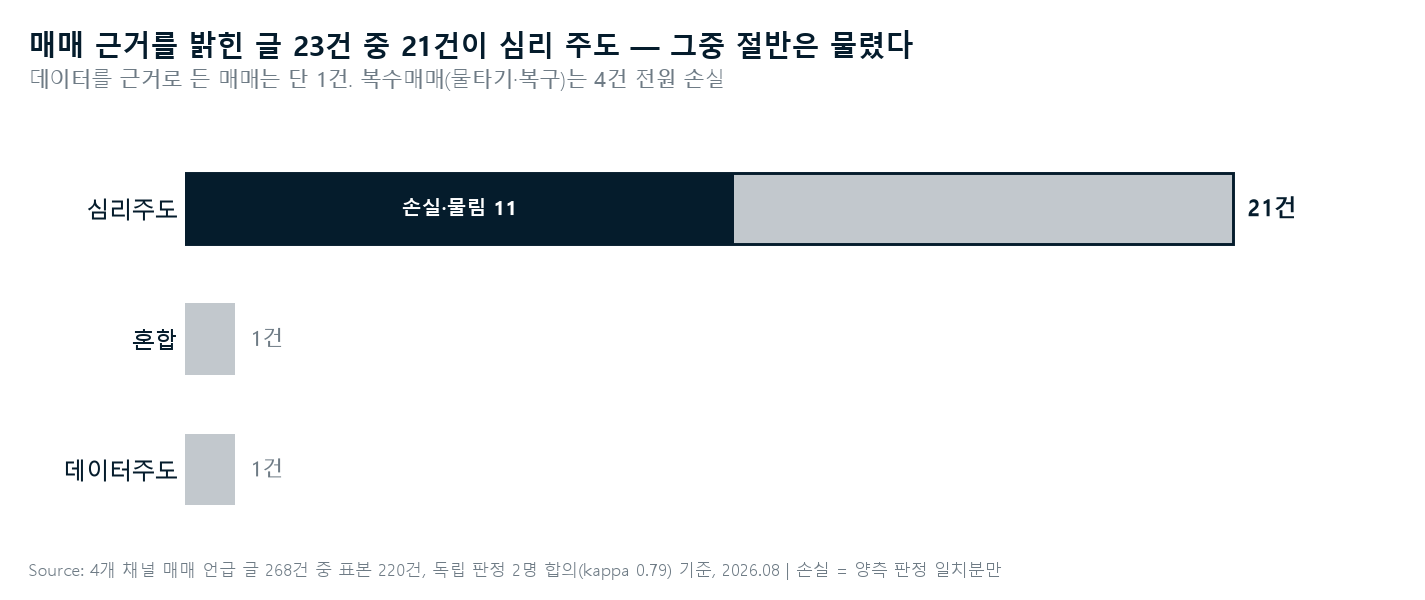
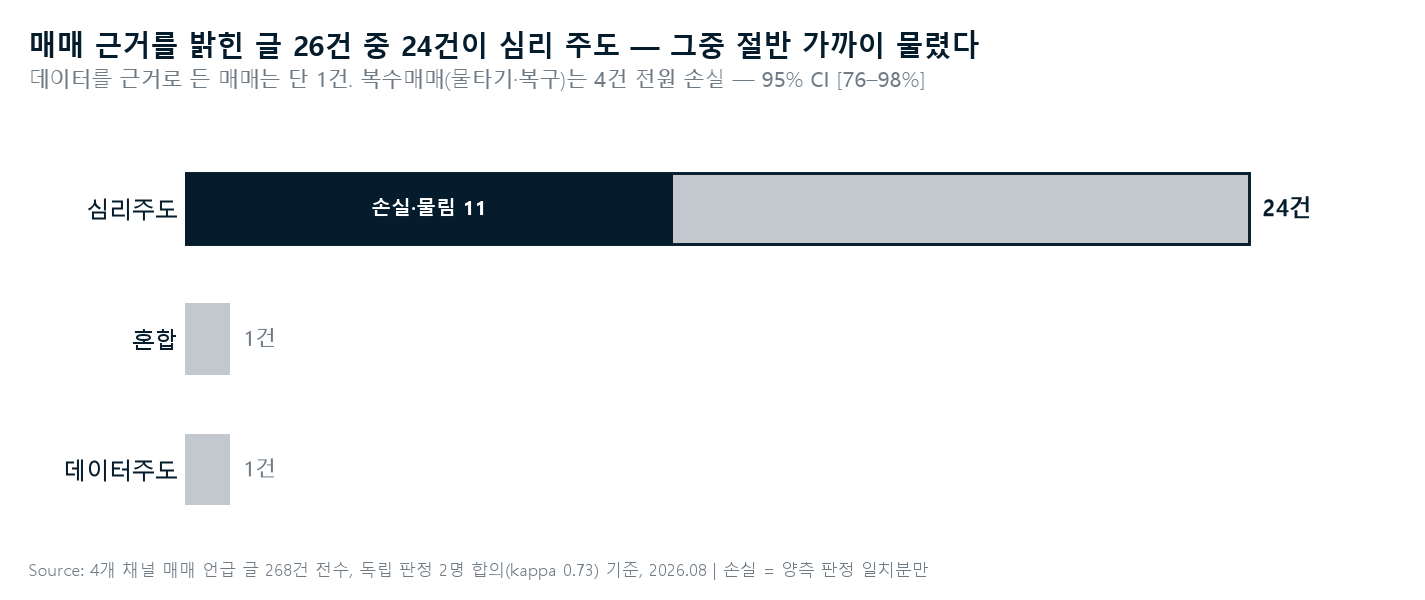
268건 전수 판정 + UX 목업 v1
- 전수 합의: 심리주도 24/26 (92%, Wilson CI [76-98%]), 손실 46% [28-65%],
  복수매매 4/4. 잔여 48건 kappa 0.50은 보고서에 정직 기재
- PRD·README·chart5 수치를 전수 기준으로 갱신
- design/mockup_v1.html: 인터셉트·복수매매 변형·거울(L2)·심리매매 지수 4화면

diff --git a/design/mockup_v1.html b/design/mockup_v1.html
@@ -1,0 +1,185 @@
+<!-- 한 번 더 — UX 목업 v1 (PRD v3 기준) -->
+<meta charset="utf-8">
+<title>한 번 더 — UX 목업 v1</title>
+<style>
+  :root{
+    --navy:#051C2C; --ink:#0e2233; --muted:#6E7B85; --line:#E4E8EB;
+    --bg:#F6F7F8; --card:#FFFFFF; --soft:#EEF1F3; --neg:#B4552D; --pos:#2E6E4E;
+  }
+  *{box-sizing:border-box; margin:0; -webkit-font-smoothing:antialiased}
+  body{font-family:'Malgun Gothic','Apple SD Gothic Neo',system-ui,sans-serif;
+       background:#e9ebee; color:var(--ink); padding:36px 20px}
+  h1{font-size:20px; margin-bottom:4px}
+  .sub{color:var(--muted); font-size:13px; margin-bottom:28px}
+  .row{display:flex; gap:28px; flex-wrap:wrap; align-items:flex-start}
+  .col{width:300px}
+  .label{font-size:13px; font-weight:bold; margin:0 0 10px 4px}
+  .note{font-size:11.5px; color:var(--muted); margin:10px 4px 0; line-height:1.55}
+
+  .phone{width:300px; height:610px; background:var(--bg); border-radius:38px;
+         border:8px solid #1b1b1d; overflow:hidden; display:flex; flex-direction:column;
+         box-shadow:0 12px 30px rgba(0,0,0,.18)}
+  .status{height:34px; display:flex; justify-content:space-between; align-items:center;
+          padding:0 22px; font-size:11px; color:var(--muted)}
+  .screen{flex:1; padding:10px 20px 16px; display:flex; flex-direction:column}
+
+  .brand{font-size:12px; letter-spacing:.14em; color:var(--muted); text-align:center; margin-bottom:6px}
+  .q{font-size:21px; font-weight:800; text-align:center; line-height:1.35; margin:14px 0 20px}
+  .btn{display:block; width:100%; padding:16px 14px; margin-bottom:10px; border:1.5px solid var(--line);
+       border-radius:14px; background:var(--card); font-size:15.5px; font-weight:600; text-align:center; color:var(--ink)}
+  .btn small{display:block; font-weight:400; font-size:11.5px; color:var(--muted); margin-top:3px}
+  .aux{margin-top:auto; background:var(--soft); border-radius:12px; padding:11px 14px;
+       font-size:12.5px; color:var(--muted); line-height:1.7}
+  .aux b{color:var(--ink); font-weight:600}
+  .actions{display:flex; gap:10px; margin-top:12px}
+  .go{flex:1; padding:14px; border-radius:12px; background:var(--navy); color:#fff;
+      font-size:14.5px; font-weight:700; text-align:center}
+  .stop{flex:1; padding:14px; border-radius:12px; background:none; border:1.5px solid var(--line);
+        color:var(--muted); font-size:14.5px; text-align:center}
+  .ctx{background:#FBF4EF; border:1px solid #EAD9CD; border-radius:12px; padding:10px 13px;
+       font-size:12.5px; color:#7A4A2B; line-height:1.6; margin-bottom:14px}
+
+  /* 거울 화면 */
+  .h2{font-size:17px; font-weight:800; margin:8px 0 3px}
+  .period{font-size:11.5px; color:var(--muted); margin-bottom:16px}
+  .mrow{margin-bottom:18px}
+  .mhead{display:flex; justify-content:space-between; font-size:13px; margin-bottom:6px}
+  .mhead b{font-weight:700}
+  .mhead .v{font-weight:800}
+  .neg{color:var(--neg)} .pos{color:var(--pos)}
+  .track{height:10px; background:var(--soft); border-radius:5px; position:relative}
+  .track .zero{position:absolute; left:50%; top:-3px; bottom:-3px; width:1px; background:#c9cfd4}
+  .bar{position:absolute; top:0; height:10px; border-radius:5px}
+  .chips{display:flex; gap:6px; flex-wrap:wrap; margin-top:4px}
+  .chip{font-size:11px; color:var(--muted); background:var(--soft); border-radius:8px; padding:3px 8px}
+  .divider{height:1px; background:var(--line); margin:16px 0}
+  .fact{font-size:13px; line-height:1.75; color:var(--ink)}
+  .fact .mut{color:var(--muted)}
+
+  /* 지수 화면 */
+  .big{font-size:44px; font-weight:800; letter-spacing:-.02em}
+  .big small{font-size:15px; font-weight:600; color:var(--muted); margin-left:4px}
+  .spark{display:flex; align-items:flex-end; gap:7px; height:86px; margin:18px 2px 6px}
+  .sp{flex:1; background:var(--soft); border-radius:4px 4px 0 0; position:relative}
+  .sp.cur{background:var(--navy)}
+  .sp span{position:absolute; top:-19px; left:0; right:0; text-align:center; font-size:10.5px; color:var(--muted)}
+  .sp.cur span{color:var(--navy); font-weight:700}
+  .months{display:flex; gap:7px; margin-bottom:14px}
+  .months div{flex:1; text-align:center; font-size:10.5px; color:var(--muted)}
+</style>
+
+<h1>한 번 더 — UX 목업 v1</h1>
+<div class="sub">PRD v3 기준 · 3초 판독 · 한 손 · 판정 문구 없음 · 게이미피케이션 없음</div>
+
+<div class="row">
+
+  <!-- ① 인터셉트 -->
+  <div class="col">
+    <div class="label">① 인터셉트 — 증권앱을 여는 순간</div>
+    <div class="phone"><div class="status"><span>8:42</span><span>🔋</span></div>
+      <div class="screen">
+        <div class="brand">한 번 더</div>
+        <div class="q">이 매수의 근거는?</div>
+        <a class="btn">실적·분석이 있다</a>
+        <a class="btn">분위기·감이다</a>
+        <a class="btn">모르겠다</a>
+        <div class="aux">
+          지금 심박 <b>평소 +14</b> · 어젯밤 수면 <b>5h 10m</b>
+        </div>
+        <div class="actions">
+          <a class="stop">오늘은 그만</a>
+          <a class="go">계속하기</a>
+        </div>
+      </div>
+    </div>
+    <div class="note">질문이 화면의 전부. 버튼을 안 눌러도 [계속하기]로 통과 가능 — 무응답도 기록된다(FR-5). 생체는 하단 보조 한 줄(L1), H10 미착용 시 수면만 표시.</div>
+  </div>
+
+  <!-- ①b 복수매매 변형 -->
+  <div class="col">
+    <div class="label">①b 복수매매 변형 — 손실 중 종목 재진입 감지 시</div>
+    <div class="phone"><div class="status"><span>10:17</span><span>🔋</span></div>
+      <div class="screen">
+        <div class="brand">한 번 더</div>
+        <div class="ctx">이 종목은 현재 <b>−18%</b> 보유 중이에요.<br>직전 매수는 7월 22일이었어요.</div>
+        <div class="q">이번 매수의 근거는?</div>
+        <a class="btn">실적·분석이 있다</a>
+        <a class="btn">분위기·감이다</a>
+        <a class="btn">모르겠다</a>
+        <div class="actions" style="margin-top:auto">
+          <a class="stop">오늘은 그만</a>
+          <a class="go">계속하기</a>
+        </div>
+      </div>
+    </div>
+    <div class="note">맥락은 <b>사실 두 줄</b>만 — "물타기네요" 같은 명명·판정 없음(FR-15, L3 금지). 보유 손익과 직전 매수일은 체결 이력에서 자동 산출.</div>
+  </div>
+
+  <!-- ② 거울 -->
+  <div class="col">
+    <div class="label">② 거울(L2) — 근거별 내 성적표</div>
+    <div class="phone"><div class="status"><span>20:31</span><span>🔋</span></div>
+      <div class="screen">
+        <div class="brand">한 번 더</div>
+        <div class="h2">근거별 30일 성과</div>
+        <div class="period">최근 90일 · 매수 12건 기준</div>
+
+        <div class="mrow">
+          <div class="mhead"><b>분위기·감이다 <span style="color:var(--muted);font-weight:400">7건</span></b>
+            <span class="v neg">−12.4%</span></div>
+          <div class="track"><span class="zero"></span><span class="bar neg" style="right:50%;width:38%;background:var(--neg)"></span></div>
+        </div>
+        <div class="mrow">
+          <div class="mhead"><b>실적·분석이 있다 <span style="color:var(--muted);font-weight:400">3건</span></b>
+            <span class="v pos">+2.1%</span></div>
+          <div class="track"><span class="zero"></span><span class="bar pos" style="left:50%;width:7%;background:var(--pos)"></span></div>
+        </div>
+        <div class="mrow">
+          <div class="mhead"><b>모르겠다 <span style="color:var(--muted);font-weight:400">2건</span></b>
+            <span class="v neg">−5.0%</span></div>
+          <div class="track"><span class="zero"></span><span class="bar neg" style="right:50%;width:15%;background:#C99B82"></span></div>
+        </div>
+
+        <div class="divider"></div>
+        <div class="fact">
+          '분위기·감' 매수의 평균 보유기간은 <b>4일</b>,<br>
+          '실적·분석' 매수는 <b>21일</b>이었어요.<br>
+          <span class="mut">평가는 하지 않아요. 숫자는 당신의 기록이에요.</span>
+        </div>
+        <div class="chips" style="margin-top:auto">
+          <span class="chip">체결내역 12건 매칭됨</span>
+          <span class="chip">라벨 응답률 83%</span>
+        </div>
+      </div>
+    </div>
+    <div class="note">"좋다/나쁘다" 없음 — 수치와 사실 문장만. 0 기준 양방향 막대(맥킨지 문법). 하단 칩은 운영 정보만(허용 목록).</div>
+  </div>
+
+  <!-- ③ 심리매매 지수 -->
+  <div class="col">
+    <div class="label">③ 월간 회고 — 심리매매 지수</div>
+    <div class="phone"><div class="status"><span>일요일</span><span>🔋</span></div>
+      <div class="screen">
+        <div class="brand">한 번 더</div>
+        <div class="h2">심리매매 지수</div>
+        <div class="period">'분위기·감' + '모르겠다' 라벨의 비율 · 월 1회 갱신</div>
+        <div class="big">33%<small>7월</small></div>
+        <div class="spark">
+          <div class="sp" style="height:78%"><span>52</span></div>
+          <div class="sp" style="height:68%"><span>45</span></div>
+          <div class="sp" style="height:60%"><span>40</span></div>
+          <div class="sp cur" style="height:50%"><span>33</span></div>
+        </div>
+        <div class="months"><div>4월</div><div>5월</div><div>6월</div><div>7월</div></div>
+        <div class="divider"></div>
+        <div class="fact">
+          7월 매수 9건 중 '분위기·감' 3건.<br>
+          <span class="mut">4월의 절반 수준이에요 — 라는 말도 하지 않아요.<br>추이는 막대가 말합니다.</span>
+        </div>
+      </div>
+    </div>
+    <div class="note">월 단위만(실시간 점수판 금지). 목표선·달성률·"좋아졌어요" 없음. 현재 월만 네이비 강조 — 색 하나에 의미 하나.</div>
+  </div>
+
+</div>
+</html>

diff --git a/research/chart_trade_basis.py b/research/chart_trade_basis.py
@@ -17,8 +17,8 @@ NAVY, GRAY, INK, MUTED = "#051C2C", "#C2C8CD", "#051C2C", "#6E7B85"
 
 # 합의 수치 (score_trade_basis.py)
 cats = ["심리주도", "혼합", "데이터주도"]
-vals = [21, 1, 1]
-loss = [11, 0, 0]  # 양측 합의 손실
+vals = [24, 1, 1]
+loss = [11, 0, 0]  # 양측 합의 손실 (전수)
 
 fig, ax = plt.subplots(figsize=(9.5, 4.0))
 y = [2, 1, 0]
@@ -40,13 +40,13 @@ ax.text(loss[0] / 2, y[0], f"손실·물림 {loss[0]}", va="center", ha="center"
         fontsize=9.5, color="white", fontweight="bold")
 for i in (1, 2):
     ax.text(vals[i] + 0.3, y[i], f"{vals[i]}건", va="center", fontsize=10, color=MUTED)
-ax.set_xlim(0, 24)
+ax.set_xlim(0, 27)
 
-fig.suptitle("매매 근거를 밝힌 글 23건 중 21건이 심리 주도 — 그중 절반은 물렸다",
+fig.suptitle("매매 근거를 밝힌 글 26건 중 24건이 심리 주도 — 그중 절반 가까이 물렸다",
              x=0.02, y=0.95, ha="left", fontsize=13.5, fontweight="bold", color=INK)
-fig.text(0.02, 0.855, "데이터를 근거로 든 매매는 단 1건. 복수매매(물타기·복구)는 4건 전원 손실",
+fig.text(0.02, 0.855, "데이터를 근거로 든 매매는 단 1건. 복수매매(물타기·복구)는 4건 전원 손실 — 95% CI [76–98%]",
          ha="left", fontsize=10, color=MUTED)
-fig.text(0.02, 0.04, "Source: 4개 채널 매매 언급 글 268건 중 표본 220건, 독립 판정 2명 합의(kappa 0.79) 기준, 2026.08 | "
+fig.text(0.02, 0.04, "Source: 4개 채널 매매 언급 글 268건 전수, 독립 판정 2명 합의(kappa 0.73) 기준, 2026.08 | "
          "손실 = 양측 판정 일치분만", fontsize=8, color=MUTED)
 plt.subplots_adjust(top=0.74, bottom=0.13, left=0.13, right=0.97)
 out = Path(__file__).parent / "output" / "chart5_trade_basis.png"

diff --git a/_bmad-output/planning-artifacts/prds/prd-decision-mirror-2026-08-04/prd.md b/_bmad-output/planning-artifacts/prds/prd-decision-mirror-2026-08-04/prd.md
@@ -26,21 +26,21 @@ revision: v3 — 문제의식 재정의(심리 주도 매매), 근거 질문 인
 
 ### 1.2 시장 검증 — 크롤링은 이 질문에 답하기 위해 수행됐다
 
-4개 채널(네이버 종목토론방·디시 주식갤·유튜브 삼프로TV/슈카월드) **5,022건**을 수집하고, 매매를 언급한 글 268건 중 표본 220건을 **독립 판정자 2명**이 분류했다(일치율 92.3%, Cohen's kappa 0.79). 판정자는 서로의 라벨과 기계 태그를 보지 않고 원문만 읽었다.
+4개 채널(네이버 종목토론방·디시 주식갤·유튜브 삼프로TV/슈카월드) **5,022건**을 수집하고, 매매를 언급한 글 **268건 전수**를 **독립 판정자 2명**이 분류했다(일치율 89.6%, Cohen's kappa 0.73). 판정자는 서로의 라벨과 기계 태그를 보지 않고 원문만 읽었다.
 
-**합의 기준 결과:**
+**합의 기준 결과 (전수, Wilson 95% CI):**
 
 | # | 발견 | 수치 |
 |---|---|---|
-| 1 | 매매 근거를 밝힌 글 중 **심리 주도** | **21/23건 (91%)** — 데이터 주도는 1건 |
-| 2 | 심리 주도 매매 중 **손실·물림·후회 동반** | **11/21건 (52%)** — 수익 언급 3건 |
+| 1 | 매매 근거를 밝힌 글 중 **심리 주도** | **24/26건 (92%, CI [76–98%])** — 데이터 주도는 1건 |
+| 2 | 심리 주도 매매 중 **손실·물림·후회 동반** | **11/24건 (46%, CI [28–65%])** — 수익 언급 3건 |
 | 3 | **복수매매(물타기·복구 목적) 손실률** | **4/4건 (100%)** — 두 판정자가 독립적으로 동일 결론 |
 
 실제 목소리: *"이재명 최태원 말듣고 샀다가 인버스로 80% 복구중"*(군집), *"고점에 물려 2달동안 고문받고있다..물타고 물타도 손실만 더 키웠는데"*(복수매매), *"본전만 올라오면 국장 정리하고 미장으로 몰빵간다"*(다음 심리 매매의 예약).
 
 **보조 발견** — 감정 분석(판정자 채점, 층화 추정)에서 커뮤니티 지배 감정은 분노·외부귀인(85.7%)이었고 FOMO 언어화는 0.8%에 불과했다. 심리는 **분노와 합리화의 언어 뒤에 숨는다.** 빈도 상위 키워드가 '실적·투자·반도체'라는 사실과 합치면: **텍스트만으로는 심리 주도 매매를 실시간 포착할 수 없다.**
 
-**한계 (명시)**: 근거가 드러난 매매는 23건으로 신뢰구간이 넓다. outcome은 자기보고라 물린 사람이 더 쓰는 생존 편향이 가능하다. "데이터 주도 1건"은 커뮤니티 글쓰기 관행의 반영일 수 있다. 데이터 무결성: 전 행 고유 ID·해시(`master_dataset.csv`), 인용문 claim 병기 검증(`verify_quotes.py`), 채점표(`trade_basis_report.md`, `lexicon_scorecard.md`).
+**한계 (명시)**: 근거가 드러난 매매는 26건으로 신뢰구간이 넓다(CI 병기). outcome은 자기보고라 물린 사람이 더 쓰는 생존 편향이 가능하다. "데이터 주도 1건"은 커뮤니티 글쓰기 관행의 반영일 수 있다. 데이터 무결성: 전 행 고유 ID·해시(`master_dataset.csv`), 인용문 claim 병기 검증(`verify_quotes.py`), 채점표(`trade_basis_report.md`, `lexicon_scorecard.md`).
 
 ### 1.3 Pain Point
 

diff --git a/_bmad-output/planning-artifacts/prds/prd-decision-mirror-2026-08-04/.memlog.md b/_bmad-output/planning-artifacts/prds/prd-decision-mirror-2026-08-04/.memlog.md
@@ -1,6 +1,6 @@
 ---
 topic: Decision Mirror (한 번 더) PRD
-updated: 2026-08-05T10:21
+updated: 2026-08-05T10:29
 ---
 
 - (decision) PRD 성격: 포트폴리오/대외 설득 문서 (5~8페이지). 문제정의와 검증 설계의 설득력이 핵심 평가 기준. 작업방식: Coaching path
@@ -37,3 +37,4 @@ updated: 2026-08-05T10:21
 - (override) 문제정의 재출발(daria): 핵심은 '심리(VIX적 공포·탐욕)에 의한 매매 → 물림'을 없애는 것. 크롤링의 목적은 감정 유병률이 아니라 이 painpoint의 시장 검증이었음. 분석 단위 전환: 글=감정표현 → 글=매매 결정의 기록. 매매 언급 글 268건 추출(5.9%), 표본 220건을 판정자 2명이 근거 분류 중(심리주도/데이터주도/혼합/불명, 심리유형 5종, 결과). 기존 자산(인터셉트·L1L2L3·규제분석·가민 베이스라인)은 유지 — 바뀌는 것은 '무엇을 비추느냐'
 - (event) pain point 시장 검증 완료: 매매 근거 분류(판정 2명, 5분류 kappa 0.79/이진 0.76). 합의 기준 — 근거 드러난 본인 매매 23건 중 심리주도 21건(91%), 데이터주도 1건. 심리주도 중 손실·물림 11건(52%, 양측합의), 수익 언급 3건. 복수매매 4건 전원 손실. 한계: 표본 소수·자기보고·커뮤니티 글쓰기 관행 편향 명시. daria의 문제의식('심리로 매매하고 물린다')이 시장 데이터로 확인됨
 - (outcome) PRD v3 확정: 스파인 ①심리매매 문제 ②시장검증(91%/52%/4-4) ③공백(매수직전 근거 묻는 도구 없음) ④근거질문 인터셉트(3버튼=마찰+라벨+거울) ⑤생체는 조기신호 후보 ⑥n=1. daria가 3버튼 [실적·분석 있다][분위기·감이다][모르겠다] 승인. 심리매매지수=주지표(H4). 신규 OI: 라벨 응답 피로, 측정의 넛지 효과
+- (event) 268건 전수 판정 완료: 심리주도 24/26(92%, CI 76-98%), 손실 동반 46%(CI 28-65%), 복수매매 4/4 유지. 전체 kappa 0.73(잔여 48건은 0.50 — 짧고 애매한 글 몰림, 합의 기준이 자동 배제). 공식 수치를 전수 기준으로 대체. UX 목업 v1 4장 완성(인터셉트/복수매매 변형/거울/지수)

diff --git a/research/output/trade_basis_report.md b/research/output/trade_basis_report.md
@@ -42,3 +42,21 @@
 - 커뮤니티 글의 대부분(합의 기준 약 76%)은 본인 매매 서술이 아니다(논평·조언·밈). 근거가 드러난 매매는 표본 내 소수라 비율의 신뢰구간이 넓다
 - outcome은 글에 적힌 자기보고다. 손실을 쓴 사람이 더 글을 쓰는 생존 편향 가능
 - '데이터주도가 드물다'는 커뮤니티 글쓰기 관행의 반영일 수 있다 — 데이터로 매매하는 사람은 토론방에 근거를 안 쓸 수 있음
+
+
+---
+
+## 전수 판정 갱신 (268건, 2026-08-05)
+
+표본 220건에 잔여 48건을 더해 **모집단 268건 전체**를 두 판정자가 판정했다.
+
+- 전체 일치율 89.6% / kappa 0.73 (이진 0.69). 합의 240건
+- **근거가 드러난 본인 매매 26건 중 심리주도 24건 — 92%, Wilson 95% CI [76–98%]**
+- 심리주도 중 손실·물림(양측 합의) 11/24건 — 46%, CI [28–65%] (완화 기준 12건)
+- **복수매매 4건 전원 손실 (변동 없음)**
+
+잔여 48건만 보면 판정자 일치율 77.1%(kappa 0.50)로 표본 220건(92.3%)보다 낮았다 —
+잔여분에 짧고 애매한 글이 몰려 있었다. 합의 기준 집계는 이 불일치를 자동으로 배제한다.
+
+> **공식 인용 수치**: 심리주도 92% [76–98%], 손실 동반 46% [28–65%], 복수매매 4/4.
+> 표본 단계 수치(91%/52%)는 전수 수치로 대체한다.

diff --git a/README.md b/README.md
@@ -16,10 +16,10 @@
 
 ## 시장 검증 (P0)
 
-4개 채널 5,022건 크롤링 → 매매 언급 글 268건 → 표본 220건을 **독립 판정자 2명**이 분류 (일치율 92.3%, kappa 0.79):
+4개 채널 5,022건 크롤링 → 매매 언급 글 **268건 전수**를 **독립 판정자 2명**이 분류 (일치율 89.6%, kappa 0.73):
 
-- 매매 근거를 밝힌 글 **23건 중 21건(91%)이 심리 주도** — 데이터 주도는 1건
-- 심리 주도 매매의 **52%가 손실·물림·후회**를 함께 보고
+- 매매 근거를 밝힌 글 **26건 중 24건(92%, 95% CI [76–98%])이 심리 주도** — 데이터 주도는 1건
+- 심리 주도 매매의 **46%(CI [28–65%])가 손실·물림·후회**를 함께 보고
 - **복수매매(물타기·복구)는 4건 전원 손실** — 두 판정자가 독립적으로 동일 결론
 
 > *"이재명 최태원 말듣고 샀다가 인버스로 80% 복구중"*
